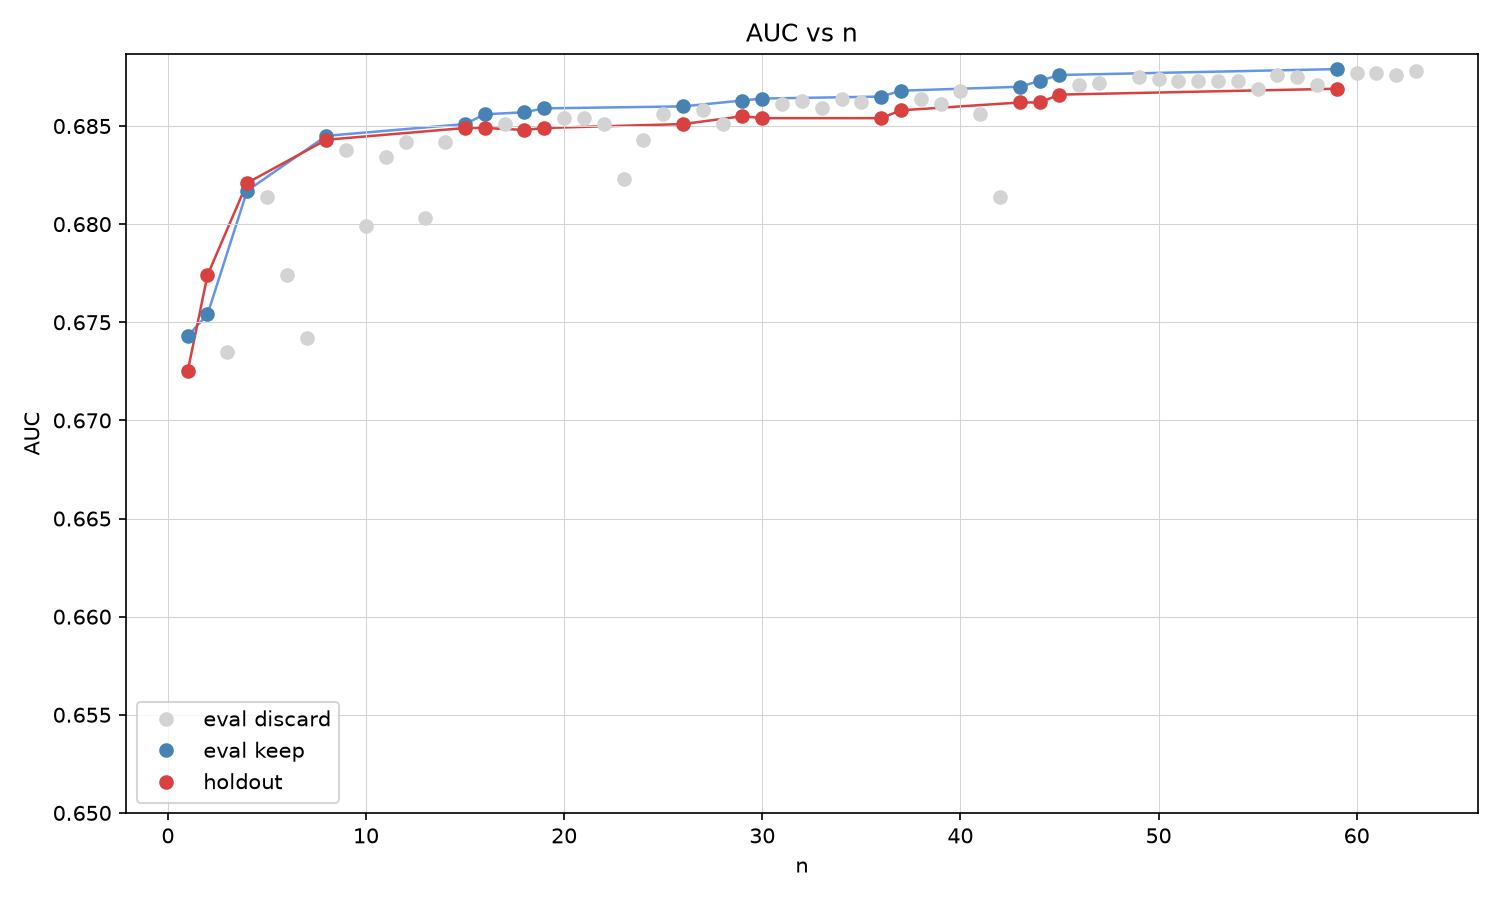
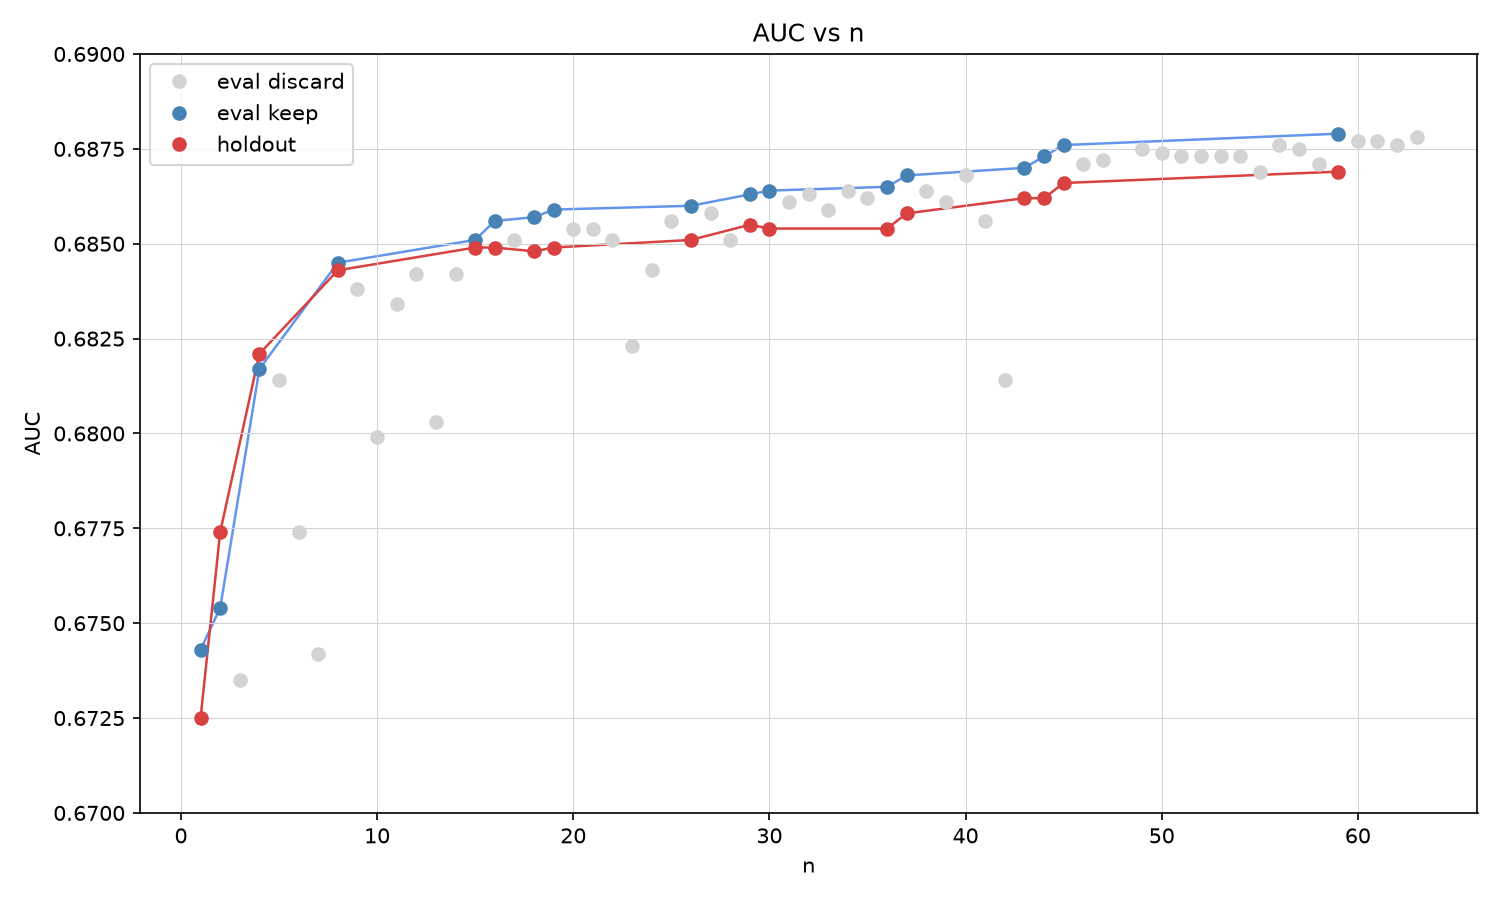
Plot: y-axis 0.67-0.69; redraw the test2 plot

diff --git a/human/plot_auc_history.py b/human/plot_auc_history.py
@@ -21,7 +21,7 @@ plt.plot(df.loc[keep, "n"], df.loc[keep, "holdout_auc"], color="#d94040", linewi
 plt.plot(df.loc[keep, "n"], df.loc[keep, "holdout_auc"], marker="o", color="#d94040", linestyle="none", label="holdout", zorder=2)
 plt.xlabel("n")
 plt.ylabel("AUC")
-plt.ylim(bottom=0.65)
+plt.ylim(0.67, 0.69)
 plt.title("AUC vs n")
 plt.grid(True, color="lightgrey", linewidth=0.5)
 plt.legend()
